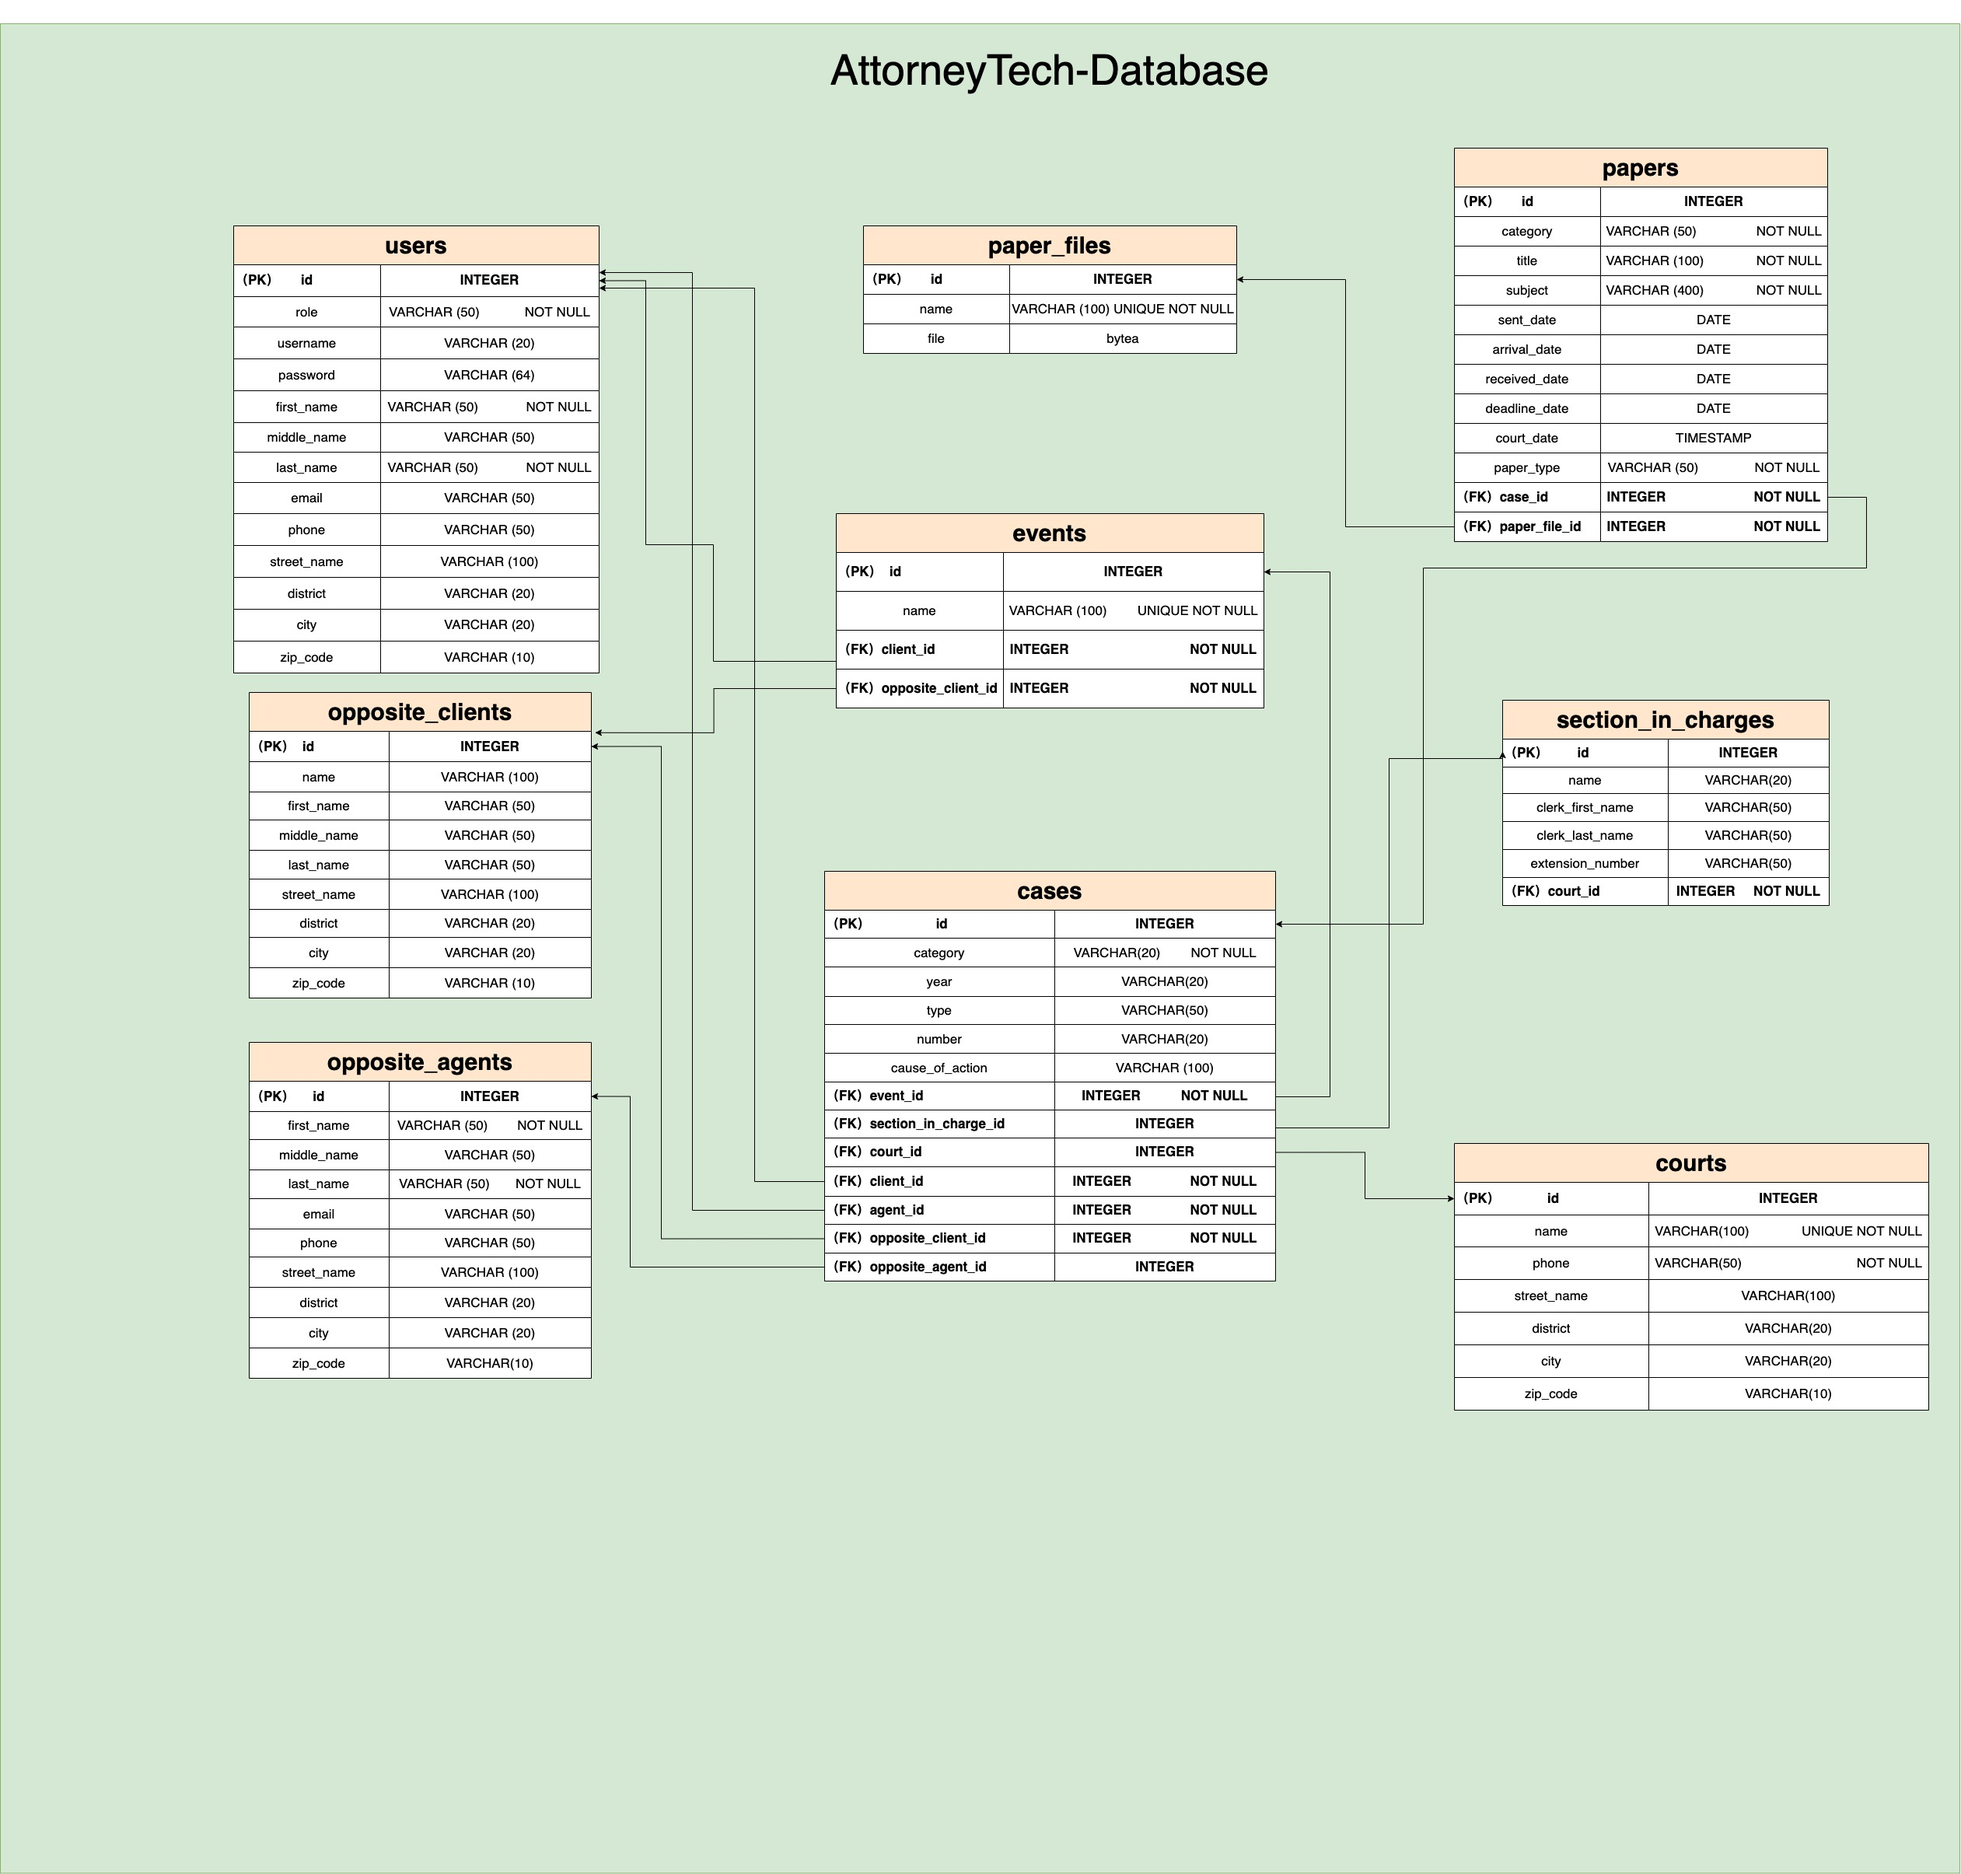
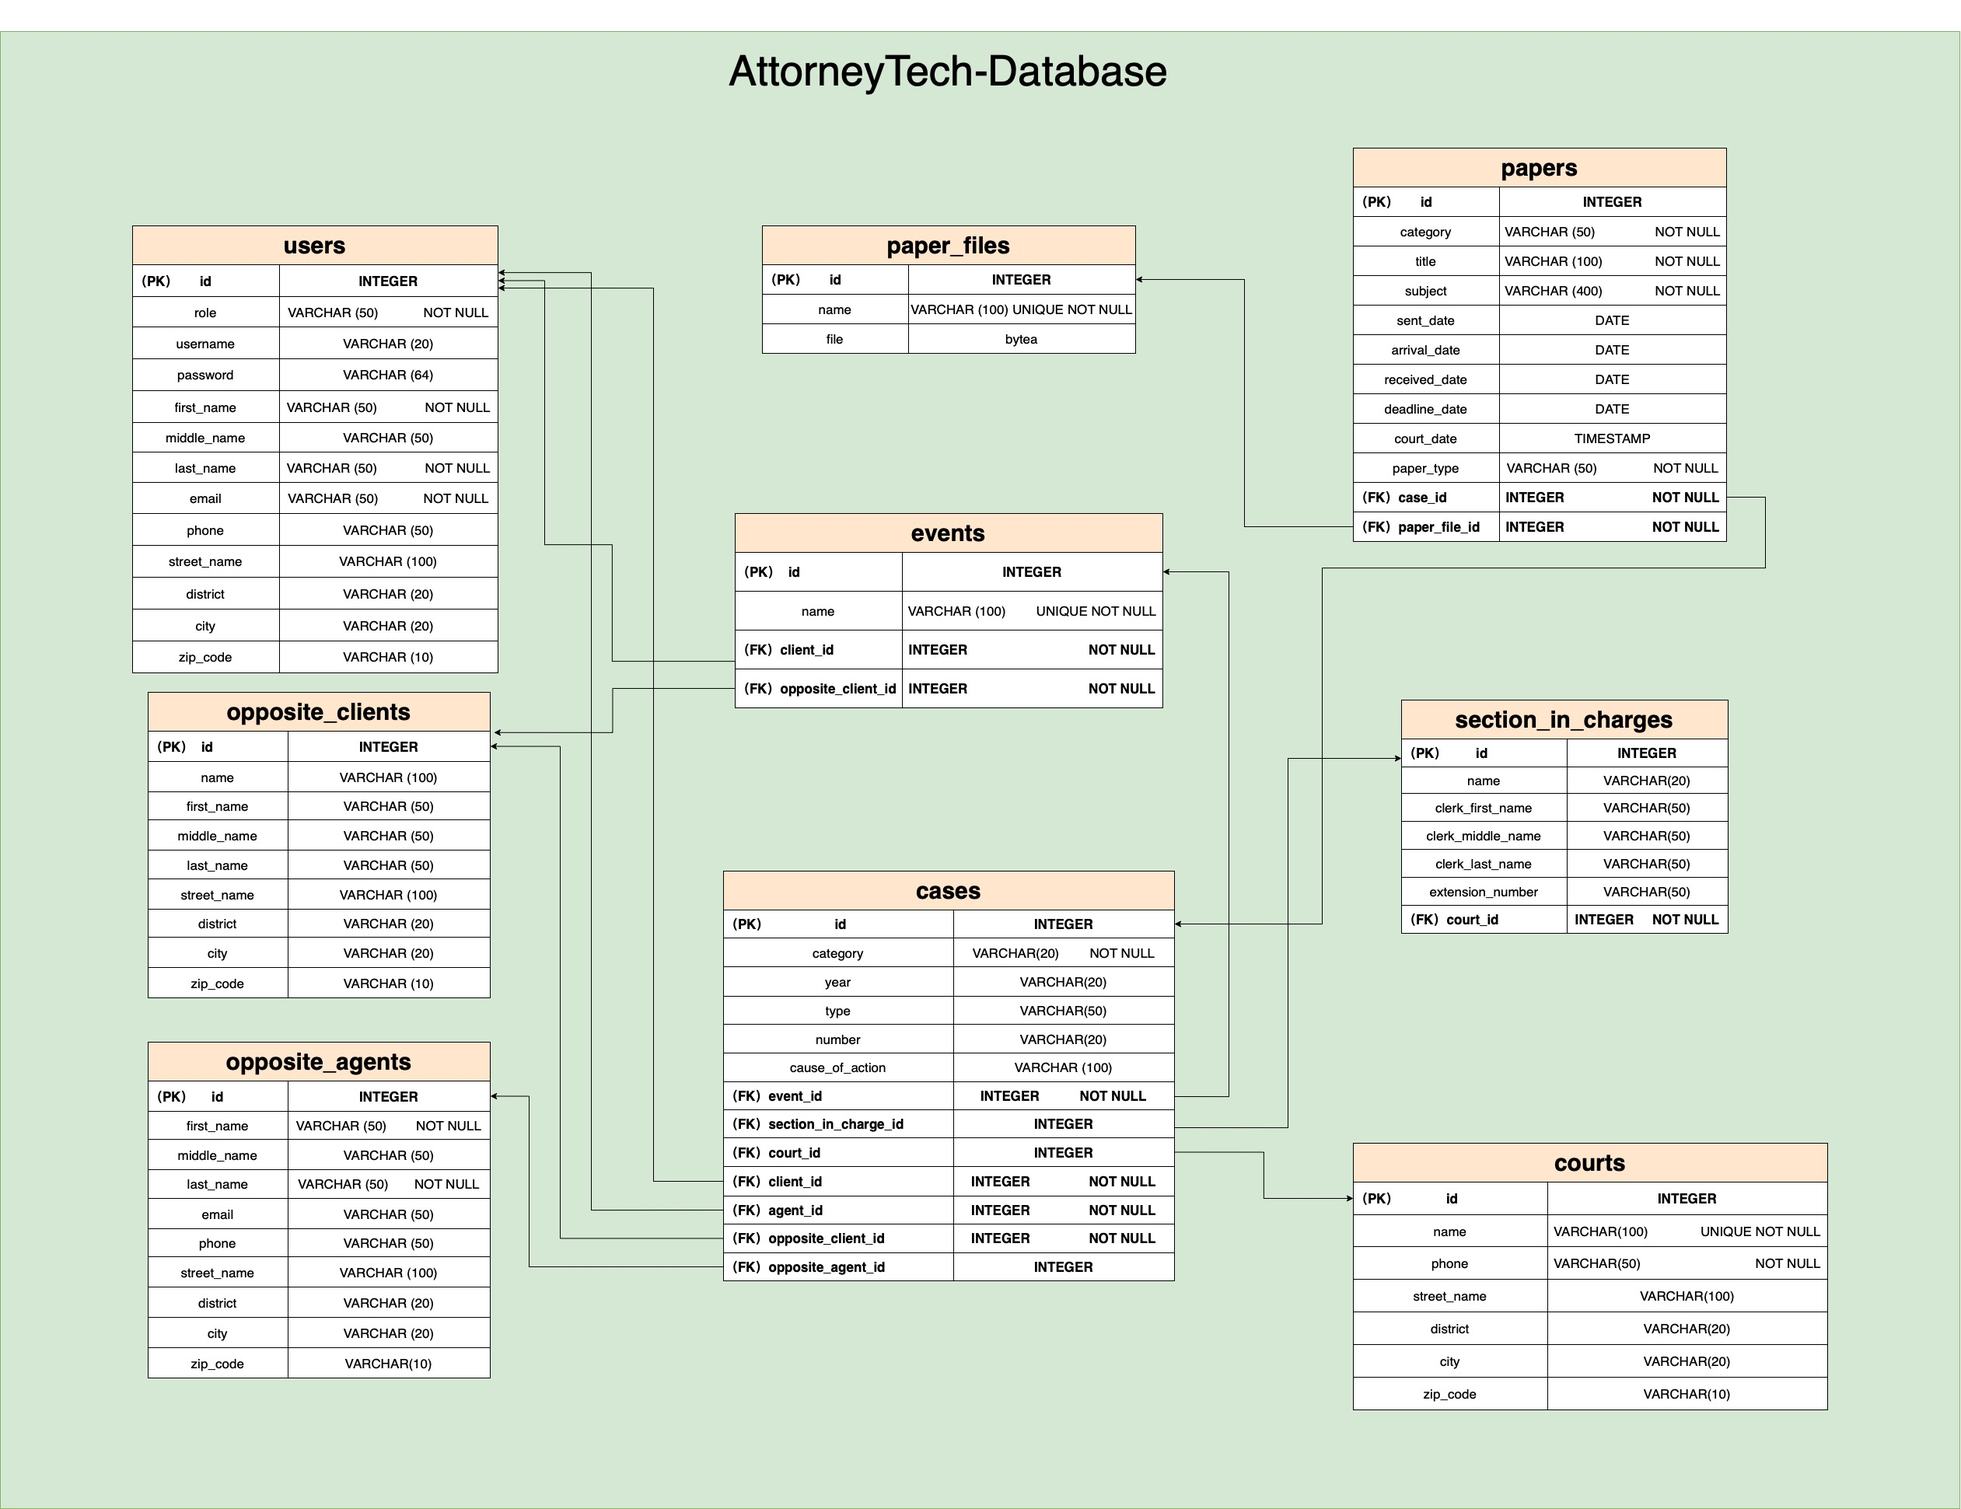
Modify table of users

diff --git a/README.md b/README.md
@@ -147,7 +147,7 @@ Store `client` or `agent` in `role` column to identify that row which one is.
 | first_name   | VARCHAR(50) NOT NULL | First name of user                                             |
 | middle_name  | VARCHAR(50)          | Middle name of user                                            |
 | last_name    | VARCHAR(50) NOT NULL | Last name of user                                              |
-| email        | VARCHAR(50)          | Email of user                                                  |
+| email        | VARCHAR(50) NOT NULL | Email of user                                                  |
 | phone        | VARCHAR(50)          | Phone number of user                                           |
 | street_name  | VARCHAR(100)         | The part of the user's address below the street name           |
 | district     | VARCHAR(20)          | The district name of user's address                            |
